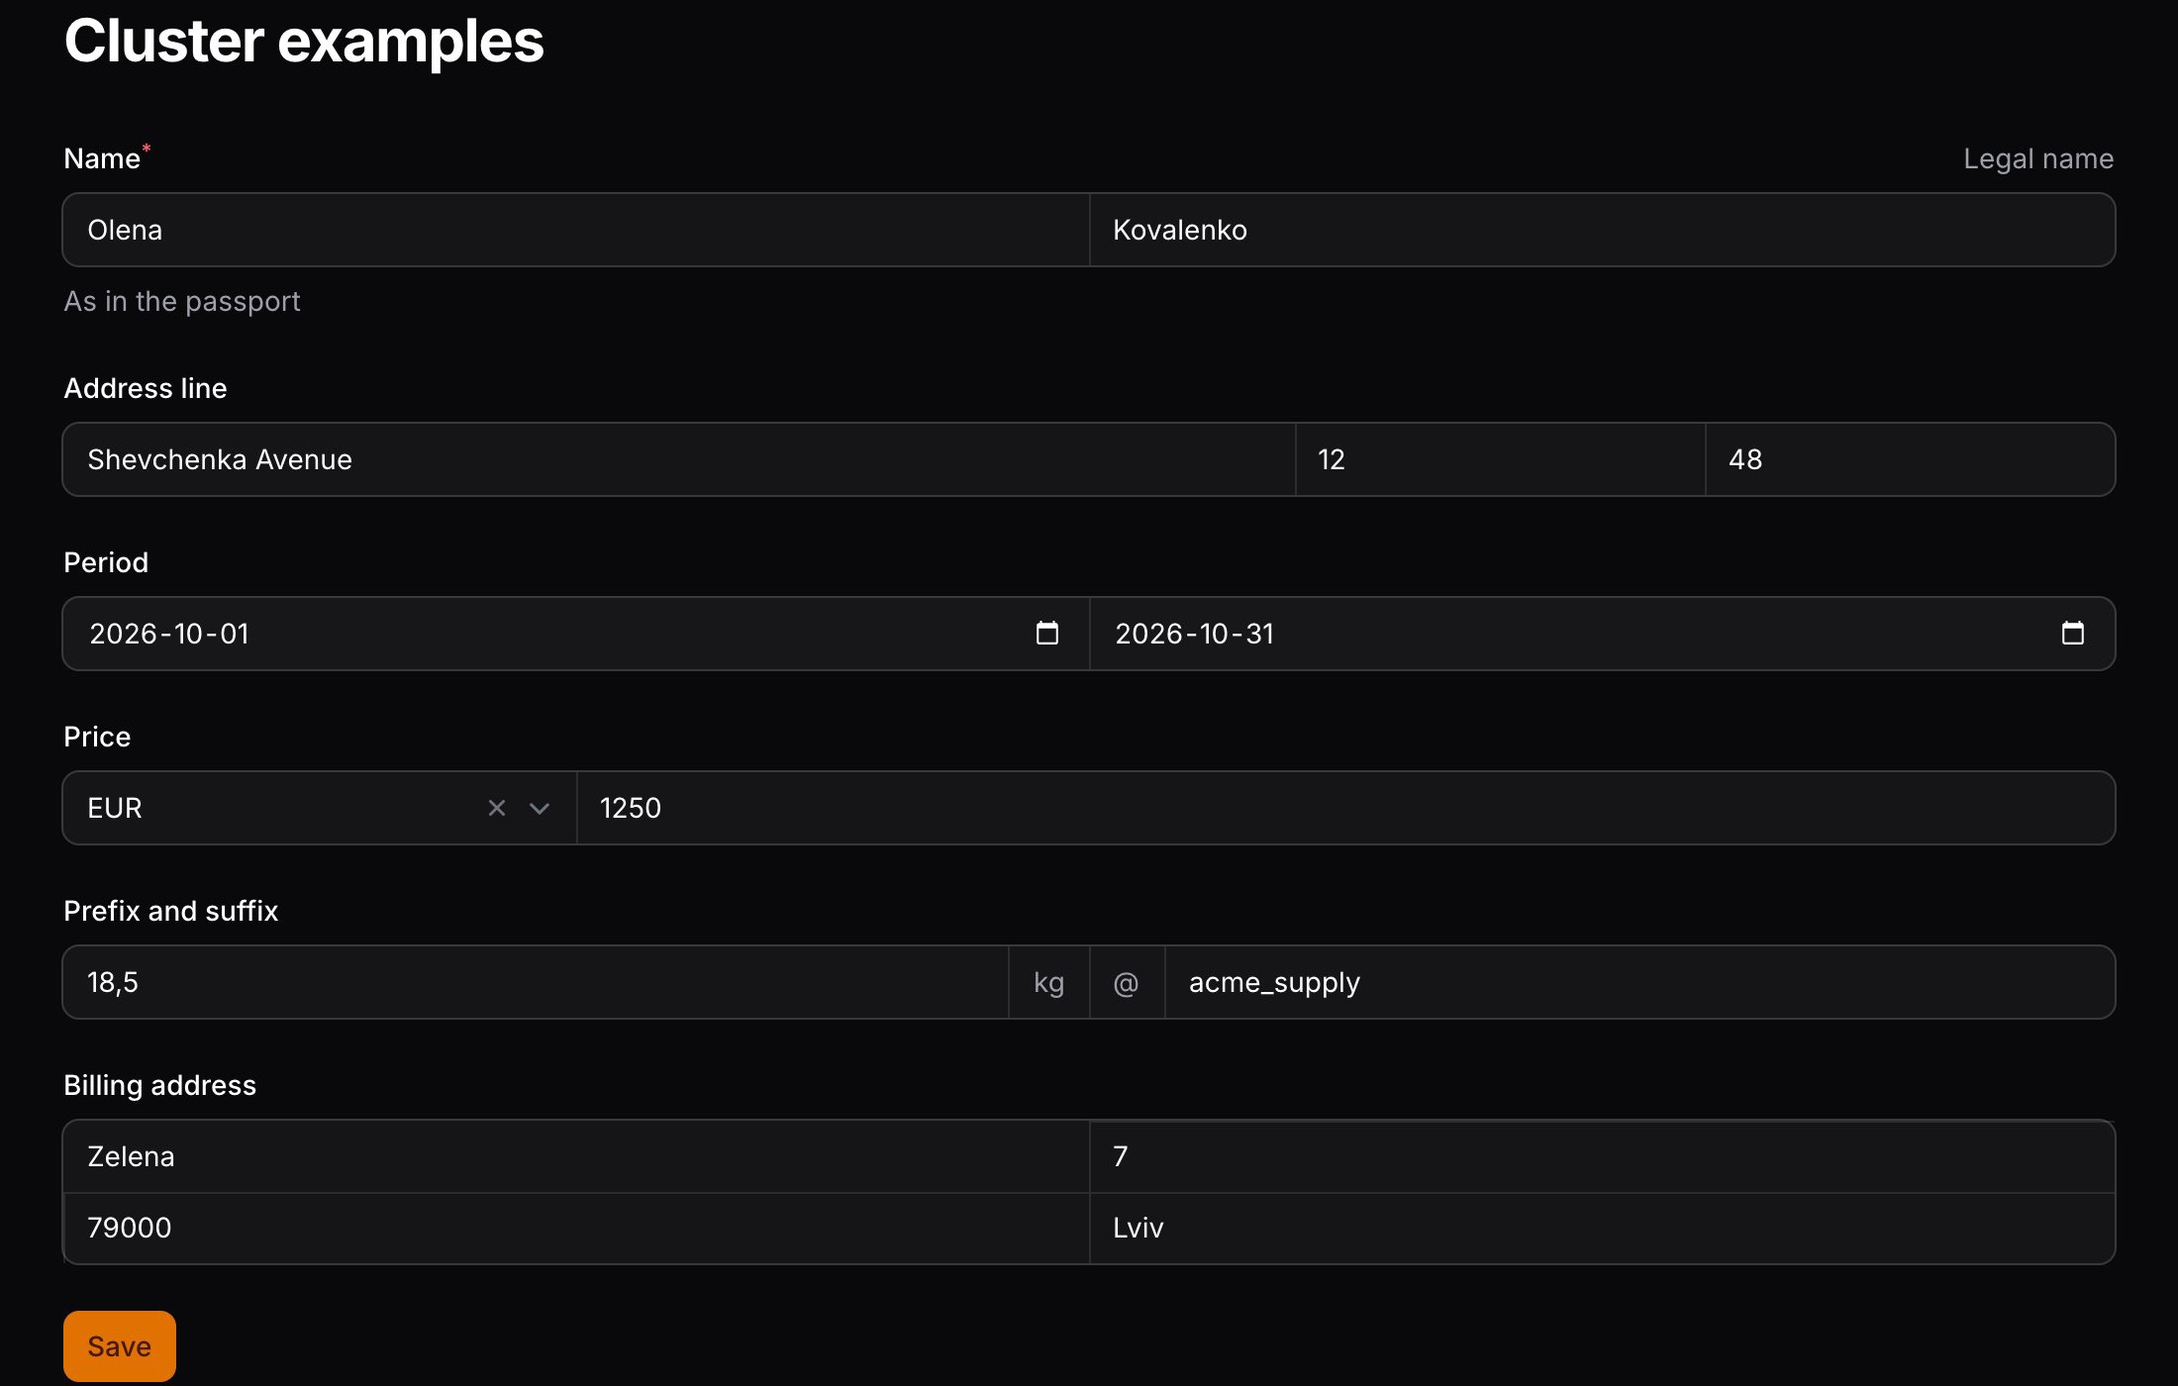
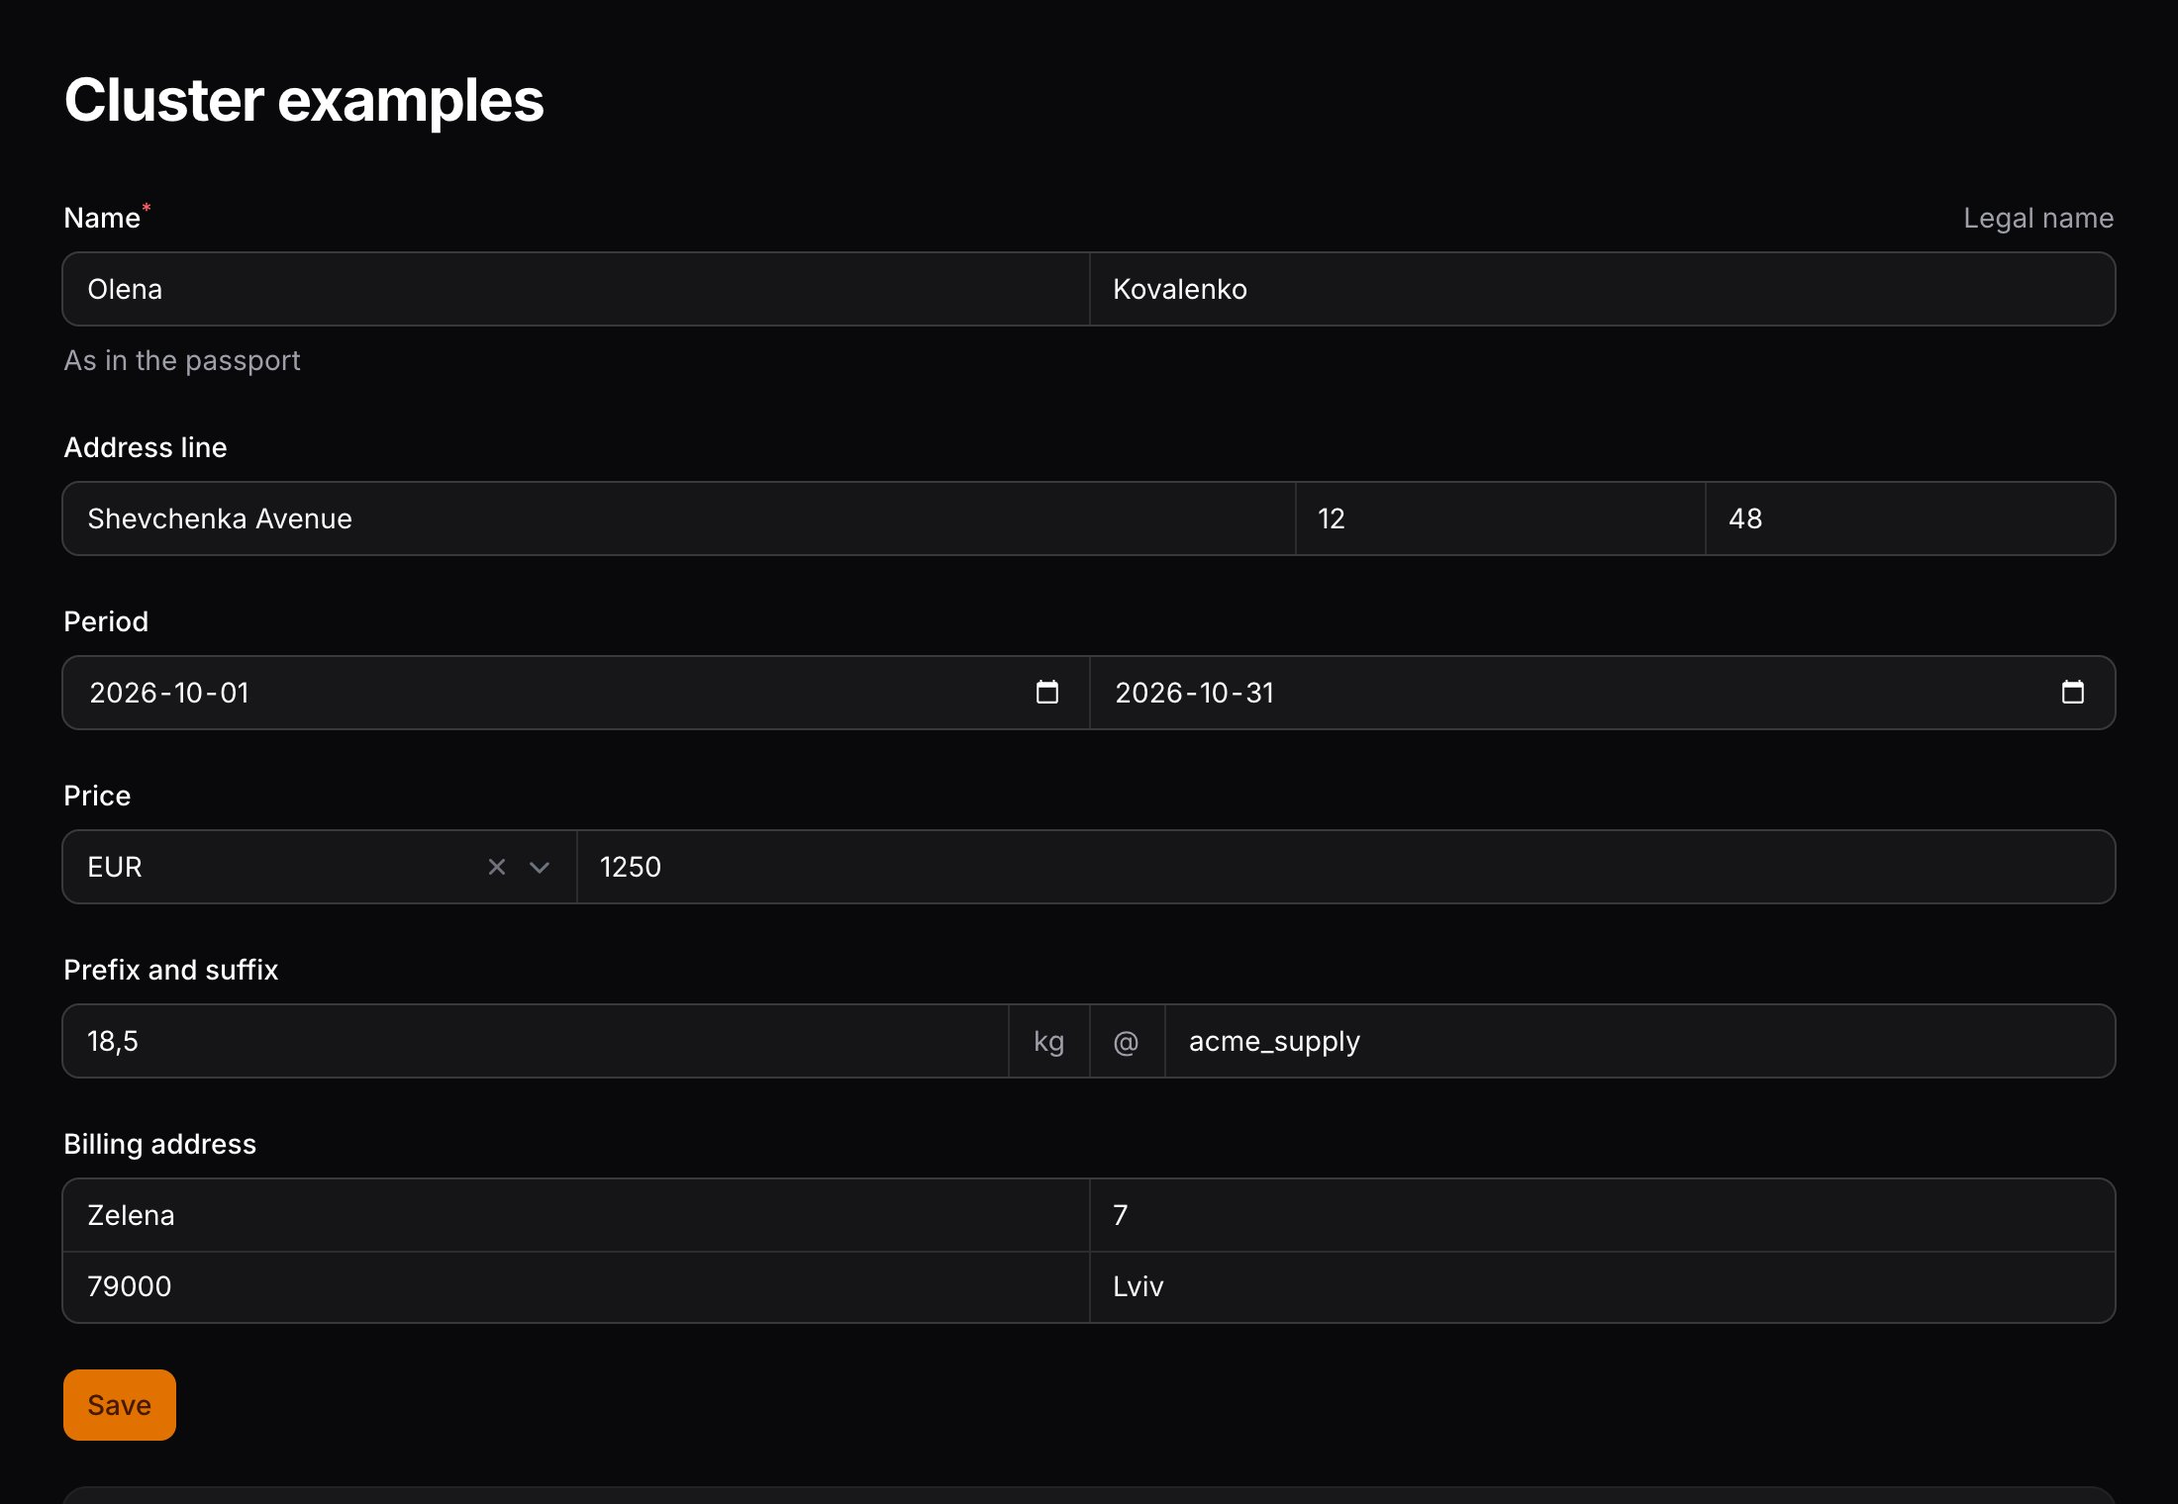
fix(css): no stray hairlines on the first row / first column of a multi-row cluster; labelled demo fields

diff --git a/resources/css/clusters.css b/resources/css/clusters.css
@@ -119,34 +119,52 @@
         --fi-cl-y: 1px;
     }
 
+    /*
+     * Grid: no hairline on the left of a cell that starts a row, none above a cell on the first row (the cluster marks
+     * the cell inside the grid column, see Cluster::getCellEdgeAttributes(), hence :has()). :where() keeps the specificity equal to the mode rules, so the rules
+     * of a larger breakpoint, which come later, still win.
+     */
+    .fi-cl[data-cl-default='grid'] > .fi-sc > .fi-grid-col:where(:has(.fi-cl-cell[data-cl-default-l])) { --fi-cl-x: 0px; }
+    .fi-cl[data-cl-default='grid'] > .fi-sc > .fi-grid-col:where(:has(.fi-cl-cell[data-cl-default-t])) { --fi-cl-y: 0px; }
+
     @media (min-width: 40rem) {
         .fi-cl[data-cl-sm='row'] > .fi-sc > .fi-grid-col { --fi-cl-x: 1px; --fi-cl-y: 0px; }
         .fi-cl[data-cl-sm='col'] > .fi-sc > .fi-grid-col { --fi-cl-x: 0px; --fi-cl-y: 1px; }
         .fi-cl[data-cl-sm='grid'] > .fi-sc > .fi-grid-col { --fi-cl-x: 1px; --fi-cl-y: 1px; }
+        .fi-cl[data-cl-sm='grid'] > .fi-sc > .fi-grid-col:where(:has(.fi-cl-cell[data-cl-sm-l])) { --fi-cl-x: 0px; }
+        .fi-cl[data-cl-sm='grid'] > .fi-sc > .fi-grid-col:where(:has(.fi-cl-cell[data-cl-sm-t])) { --fi-cl-y: 0px; }
     }
 
     @media (min-width: 48rem) {
         .fi-cl[data-cl-md='row'] > .fi-sc > .fi-grid-col { --fi-cl-x: 1px; --fi-cl-y: 0px; }
         .fi-cl[data-cl-md='col'] > .fi-sc > .fi-grid-col { --fi-cl-x: 0px; --fi-cl-y: 1px; }
         .fi-cl[data-cl-md='grid'] > .fi-sc > .fi-grid-col { --fi-cl-x: 1px; --fi-cl-y: 1px; }
+        .fi-cl[data-cl-md='grid'] > .fi-sc > .fi-grid-col:where(:has(.fi-cl-cell[data-cl-md-l])) { --fi-cl-x: 0px; }
+        .fi-cl[data-cl-md='grid'] > .fi-sc > .fi-grid-col:where(:has(.fi-cl-cell[data-cl-md-t])) { --fi-cl-y: 0px; }
     }
 
     @media (min-width: 64rem) {
         .fi-cl[data-cl-lg='row'] > .fi-sc > .fi-grid-col { --fi-cl-x: 1px; --fi-cl-y: 0px; }
         .fi-cl[data-cl-lg='col'] > .fi-sc > .fi-grid-col { --fi-cl-x: 0px; --fi-cl-y: 1px; }
         .fi-cl[data-cl-lg='grid'] > .fi-sc > .fi-grid-col { --fi-cl-x: 1px; --fi-cl-y: 1px; }
+        .fi-cl[data-cl-lg='grid'] > .fi-sc > .fi-grid-col:where(:has(.fi-cl-cell[data-cl-lg-l])) { --fi-cl-x: 0px; }
+        .fi-cl[data-cl-lg='grid'] > .fi-sc > .fi-grid-col:where(:has(.fi-cl-cell[data-cl-lg-t])) { --fi-cl-y: 0px; }
     }
 
     @media (min-width: 80rem) {
         .fi-cl[data-cl-xl='row'] > .fi-sc > .fi-grid-col { --fi-cl-x: 1px; --fi-cl-y: 0px; }
         .fi-cl[data-cl-xl='col'] > .fi-sc > .fi-grid-col { --fi-cl-x: 0px; --fi-cl-y: 1px; }
         .fi-cl[data-cl-xl='grid'] > .fi-sc > .fi-grid-col { --fi-cl-x: 1px; --fi-cl-y: 1px; }
+        .fi-cl[data-cl-xl='grid'] > .fi-sc > .fi-grid-col:where(:has(.fi-cl-cell[data-cl-xl-l])) { --fi-cl-x: 0px; }
+        .fi-cl[data-cl-xl='grid'] > .fi-sc > .fi-grid-col:where(:has(.fi-cl-cell[data-cl-xl-t])) { --fi-cl-y: 0px; }
     }
 
     @media (min-width: 96rem) {
         .fi-cl[data-cl-2xl='row'] > .fi-sc > .fi-grid-col { --fi-cl-x: 1px; --fi-cl-y: 0px; }
         .fi-cl[data-cl-2xl='col'] > .fi-sc > .fi-grid-col { --fi-cl-x: 0px; --fi-cl-y: 1px; }
         .fi-cl[data-cl-2xl='grid'] > .fi-sc > .fi-grid-col { --fi-cl-x: 1px; --fi-cl-y: 1px; }
+        .fi-cl[data-cl-2xl='grid'] > .fi-sc > .fi-grid-col:where(:has(.fi-cl-cell[data-cl-2xl-l])) { --fi-cl-x: 0px; }
+        .fi-cl[data-cl-2xl='grid'] > .fi-sc > .fi-grid-col:where(:has(.fi-cl-cell[data-cl-2xl-t])) { --fi-cl-y: 0px; }
     }
 
     /* Native inputs that sit directly in a cell (a bare <select> is rare, but cheap to keep readable). */

diff --git a/resources/dist/clusters.css b/resources/dist/clusters.css
@@ -119,34 +119,52 @@
         --fi-cl-y: 1px;
     }
 
+    /*
+     * Grid: no hairline on the left of a cell that starts a row, none above a cell on the first row (the cluster marks
+     * the cell inside the grid column, see Cluster::getCellEdgeAttributes(), hence :has()). :where() keeps the specificity equal to the mode rules, so the rules
+     * of a larger breakpoint, which come later, still win.
+     */
+    .fi-cl[data-cl-default='grid'] > .fi-sc > .fi-grid-col:where(:has(.fi-cl-cell[data-cl-default-l])) { --fi-cl-x: 0px; }
+    .fi-cl[data-cl-default='grid'] > .fi-sc > .fi-grid-col:where(:has(.fi-cl-cell[data-cl-default-t])) { --fi-cl-y: 0px; }
+
     @media (min-width: 40rem) {
         .fi-cl[data-cl-sm='row'] > .fi-sc > .fi-grid-col { --fi-cl-x: 1px; --fi-cl-y: 0px; }
         .fi-cl[data-cl-sm='col'] > .fi-sc > .fi-grid-col { --fi-cl-x: 0px; --fi-cl-y: 1px; }
         .fi-cl[data-cl-sm='grid'] > .fi-sc > .fi-grid-col { --fi-cl-x: 1px; --fi-cl-y: 1px; }
+        .fi-cl[data-cl-sm='grid'] > .fi-sc > .fi-grid-col:where(:has(.fi-cl-cell[data-cl-sm-l])) { --fi-cl-x: 0px; }
+        .fi-cl[data-cl-sm='grid'] > .fi-sc > .fi-grid-col:where(:has(.fi-cl-cell[data-cl-sm-t])) { --fi-cl-y: 0px; }
     }
 
     @media (min-width: 48rem) {
         .fi-cl[data-cl-md='row'] > .fi-sc > .fi-grid-col { --fi-cl-x: 1px; --fi-cl-y: 0px; }
         .fi-cl[data-cl-md='col'] > .fi-sc > .fi-grid-col { --fi-cl-x: 0px; --fi-cl-y: 1px; }
         .fi-cl[data-cl-md='grid'] > .fi-sc > .fi-grid-col { --fi-cl-x: 1px; --fi-cl-y: 1px; }
+        .fi-cl[data-cl-md='grid'] > .fi-sc > .fi-grid-col:where(:has(.fi-cl-cell[data-cl-md-l])) { --fi-cl-x: 0px; }
+        .fi-cl[data-cl-md='grid'] > .fi-sc > .fi-grid-col:where(:has(.fi-cl-cell[data-cl-md-t])) { --fi-cl-y: 0px; }
     }
 
     @media (min-width: 64rem) {
         .fi-cl[data-cl-lg='row'] > .fi-sc > .fi-grid-col { --fi-cl-x: 1px; --fi-cl-y: 0px; }
         .fi-cl[data-cl-lg='col'] > .fi-sc > .fi-grid-col { --fi-cl-x: 0px; --fi-cl-y: 1px; }
         .fi-cl[data-cl-lg='grid'] > .fi-sc > .fi-grid-col { --fi-cl-x: 1px; --fi-cl-y: 1px; }
+        .fi-cl[data-cl-lg='grid'] > .fi-sc > .fi-grid-col:where(:has(.fi-cl-cell[data-cl-lg-l])) { --fi-cl-x: 0px; }
+        .fi-cl[data-cl-lg='grid'] > .fi-sc > .fi-grid-col:where(:has(.fi-cl-cell[data-cl-lg-t])) { --fi-cl-y: 0px; }
     }
 
     @media (min-width: 80rem) {
         .fi-cl[data-cl-xl='row'] > .fi-sc > .fi-grid-col { --fi-cl-x: 1px; --fi-cl-y: 0px; }
         .fi-cl[data-cl-xl='col'] > .fi-sc > .fi-grid-col { --fi-cl-x: 0px; --fi-cl-y: 1px; }
         .fi-cl[data-cl-xl='grid'] > .fi-sc > .fi-grid-col { --fi-cl-x: 1px; --fi-cl-y: 1px; }
+        .fi-cl[data-cl-xl='grid'] > .fi-sc > .fi-grid-col:where(:has(.fi-cl-cell[data-cl-xl-l])) { --fi-cl-x: 0px; }
+        .fi-cl[data-cl-xl='grid'] > .fi-sc > .fi-grid-col:where(:has(.fi-cl-cell[data-cl-xl-t])) { --fi-cl-y: 0px; }
     }
 
     @media (min-width: 96rem) {
         .fi-cl[data-cl-2xl='row'] > .fi-sc > .fi-grid-col { --fi-cl-x: 1px; --fi-cl-y: 0px; }
         .fi-cl[data-cl-2xl='col'] > .fi-sc > .fi-grid-col { --fi-cl-x: 0px; --fi-cl-y: 1px; }
         .fi-cl[data-cl-2xl='grid'] > .fi-sc > .fi-grid-col { --fi-cl-x: 1px; --fi-cl-y: 1px; }
+        .fi-cl[data-cl-2xl='grid'] > .fi-sc > .fi-grid-col:where(:has(.fi-cl-cell[data-cl-2xl-l])) { --fi-cl-x: 0px; }
+        .fi-cl[data-cl-2xl='grid'] > .fi-sc > .fi-grid-col:where(:has(.fi-cl-cell[data-cl-2xl-t])) { --fi-cl-y: 0px; }
     }
 
     /* Native inputs that sit directly in a cell (a bare <select> is rare, but cheap to keep readable). */

diff --git a/src/Cluster.php b/src/Cluster.php
@@ -376,6 +376,88 @@ class Cluster extends Field implements HasEmbeddedView
     }
 
     /**
+     * Attributes for one child cell. In a multi-row layout (`grid`) the stylesheet draws a hairline above and to the
+     * left of every cell except those on the first row / in the first column: only the cluster can tell which those
+     * are, because it knows the columns and the spans of its children. The cell gets `data-cl-{breakpoint}-l` when it
+     * starts a row and `data-cl-{breakpoint}-t` when it sits on the first row, for each breakpoint in `grid` mode.
+     * Children that are not direct components of the cluster's schema (wrapped in a layout) get none.
+     *
+     * @return array<string, string>
+     */
+    public function getCellEdgeAttributes(Component $child): array
+    {
+        $components = array_values($this->getChildSchema()?->getComponents() ?? []);
+        $columns = $this->getAllColumns();
+        $count = count($components);
+        $attributes = [];
+
+        foreach (self::BREAKPOINTS as $breakpoint) {
+            $cols = $columns[$breakpoint] ?? null;
+
+            if ($cols === null || $cols <= 1 || $cols >= $count) {
+                continue;
+            }
+
+            $row = 0;
+            $column = 0;
+
+            foreach ($components as $component) {
+                $span = $this->spanAt($component, $breakpoint, $cols);
+
+                if ($column > 0 && $column + $span > $cols) {
+                    $row++;
+                    $column = 0;
+                }
+
+                if ($component === $child) {
+                    if ($column === 0) {
+                        $attributes["data-cl-{$breakpoint}-l"] = '';
+                    }
+
+                    if ($row === 0) {
+                        $attributes["data-cl-{$breakpoint}-t"] = '';
+                    }
+
+                    break;
+                }
+
+                $column += $span;
+
+                if ($column >= $cols) {
+                    $row++;
+                    $column = 0;
+                }
+            }
+        }
+
+        return $attributes;
+    }
+
+    /**
+     * The column span a child has at a breakpoint: the last one set at or below it (spans cascade up, like columns),
+     * `full` meaning every column, never wider than the grid.
+     */
+    private function spanAt(Component $component, string $breakpoint, int $cols): int
+    {
+        $spans = $component->getColumnSpan();
+        $span = 1;
+
+        foreach (self::BREAKPOINTS as $name) {
+            $value = is_array($spans) ? ($spans[$name] ?? null) : null;
+
+            if ($value !== null) {
+                $span = $value === 'full' ? $cols : max(1, (int) $value);
+            }
+
+            if ($name === $breakpoint) {
+                break;
+            }
+        }
+
+        return min($span, $cols);
+    }
+
+    /**
      * Tells the stylesheet, per breakpoint, how the children are laid out (`row`, `col` or `grid`), so it can draw
      * the dividers on the right side. Only breakpoints the columns set explicitly are emitted; the others inherit.
      *

diff --git a/tests/Feature/ClusterRenderTest.php b/tests/Feature/ClusterRenderTest.php
@@ -124,6 +124,52 @@ class ClusterRenderTest extends TestCase
         $this->assertStringNotContainsString('--cols-lg', $html);
     }
 
+    public function test_a_multi_row_cluster_marks_the_cells_that_need_no_hairline(): void
+    {
+        $html = $this->render([
+            Cluster::make([TextInput::make('a'), TextInput::make('b'), TextInput::make('c'), TextInput::make('d')])->label('Grid')->columns(2),
+        ]);
+
+        // a: row start + first row; b: first row; c: row start; d: neither.
+        $this->assertSame(2, substr_count($html, 'data-cl-default-l'));
+        $this->assertSame(2, substr_count($html, 'data-cl-default-t'));
+    }
+
+    public function test_spans_move_the_row_starts(): void
+    {
+        $html = $this->render([
+            Cluster::make([
+                TextInput::make('a')->columnSpan(['default' => 2]),
+                TextInput::make('b'),
+                TextInput::make('c')->columnSpanFull(),
+                TextInput::make('d'),
+            ])->label('Spans')->columns(3),
+        ]);
+
+        // a (cols 1-2) starts row 0; b sits on row 0 but does not start it; c and d start rows 1 and 2.
+        $this->assertSame(3, substr_count($html, 'data-cl-default-l'));
+        $this->assertSame(2, substr_count($html, 'data-cl-default-t'));
+    }
+
+    public function test_a_row_layout_gets_no_edge_marks(): void
+    {
+        $html = $this->render([Cluster::make([TextInput::make('a'), TextInput::make('b')])->label('Row')]);
+
+        $this->assertStringNotContainsString('data-cl-default-l', $html);
+    }
+
+    public function test_the_stylesheet_ships_the_edge_rules(): void
+    {
+        $css = (string) file_get_contents(__DIR__.'/../../resources/dist/clusters.css');
+
+        foreach (['default', 'sm', 'md', 'lg', 'xl', '2xl'] as $bp) {
+            $this->assertStringContainsString("[data-cl-{$bp}-l]", $css);
+            $this->assertStringContainsString("[data-cl-{$bp}-t]", $css);
+        }
+
+        $this->assertSame(file_get_contents(__DIR__.'/../../resources/css/clusters.css'), $css, 'dist is a verbatim copy');
+    }
+
     public function test_children_can_span_columns(): void
     {
         $html = $this->render([

diff --git a/tests/Feature/ClusterValidationTest.php b/tests/Feature/ClusterValidationTest.php
@@ -63,6 +63,21 @@ class ClusterValidationTest extends TestCase
         $this->assertSame(2, substr_count($html, 'class="fi-fo-field-wrp-error-message"'));
     }
 
+    public function test_messages_name_the_field_by_its_label_and_the_other_field_in_a_rule_too(): void
+    {
+        $html = $this->form([
+            Cluster::make([
+                \Filament\Forms\Components\DatePicker::make('from')->label('Start date'),
+                \Filament\Forms\Components\DatePicker::make('to')->label('End date')->afterOrEqual('from'),
+            ])->label('Period'),
+        ])
+            ->fillForm(['from' => '2026-10-31', 'to' => '2026-10-01'])
+            ->call('save')
+            ->html();
+
+        $this->assertStringContainsString('The end date field must be a date after or equal to start date.', $html);
+    }
+
     public function test_a_single_error_is_a_plain_message(): void
     {
         $html = $this->form([$this->nameCluster()])

diff --git a/resources/views/components/cell.blade.php b/resources/views/components/cell.blade.php
@@ -11,7 +11,7 @@
         : ($childLabel ?: $clusterLabel);
 @endphp
 
-<div data-field-wrapper {{ $attributes->merge($field->getExtraFieldWrapperAttributes() ?? [], escape: false)->class(['fi-cl-cell']) }}>
+<div data-field-wrapper {{ $attributes->merge($field->getExtraFieldWrapperAttributes() ?? [], escape: false)->merge(($cluster instanceof Cluster) ? $cluster->getCellEdgeAttributes($field) : [], escape: false)->class(['fi-cl-cell']) }}>
     @if (filled($accessibleLabel))
         <label for="{{ $field->getId() }}" class="fi-sr-only">{{ $accessibleLabel }}</label>
     @endif

diff --git a/workbench/app/Filament/Pages/ClusterExamples.php b/workbench/app/Filament/Pages/ClusterExamples.php
@@ -63,8 +63,8 @@ class ClusterExamples extends Page
                 ])->label('Address line')->columns(['default' => 1, 'sm' => 5]),
 
                 Cluster::make([
-                    DatePicker::make('from'),
-                    DatePicker::make('to')->afterOrEqual('from'),
+                    DatePicker::make('from')->label('Start date'),
+                    DatePicker::make('to')->label('End date')->afterOrEqual('from'),
                 ])->label('Period'),
 
                 Cluster::make([

diff --git a/CHANGELOG.md b/CHANGELOG.md
@@ -4,6 +4,8 @@ All notable changes to `asignua/filament-clusters` are documented here.
 
 ## 1.0.1 - Unreleased
 
+- Fix: in a multi-row cluster (`columns(2)` with four fields, spans included) the cells on the first row no longer get a hairline along their top edge and the cells starting a row none on their left.
+- Docs: demo fields have explicit labels, so a server-side rule message reads «The end date field must be a date after or equal to start date.»
 - Docs: screenshots, cover and a workbench demo.
 
 ## 1.0.0 - Unreleased
